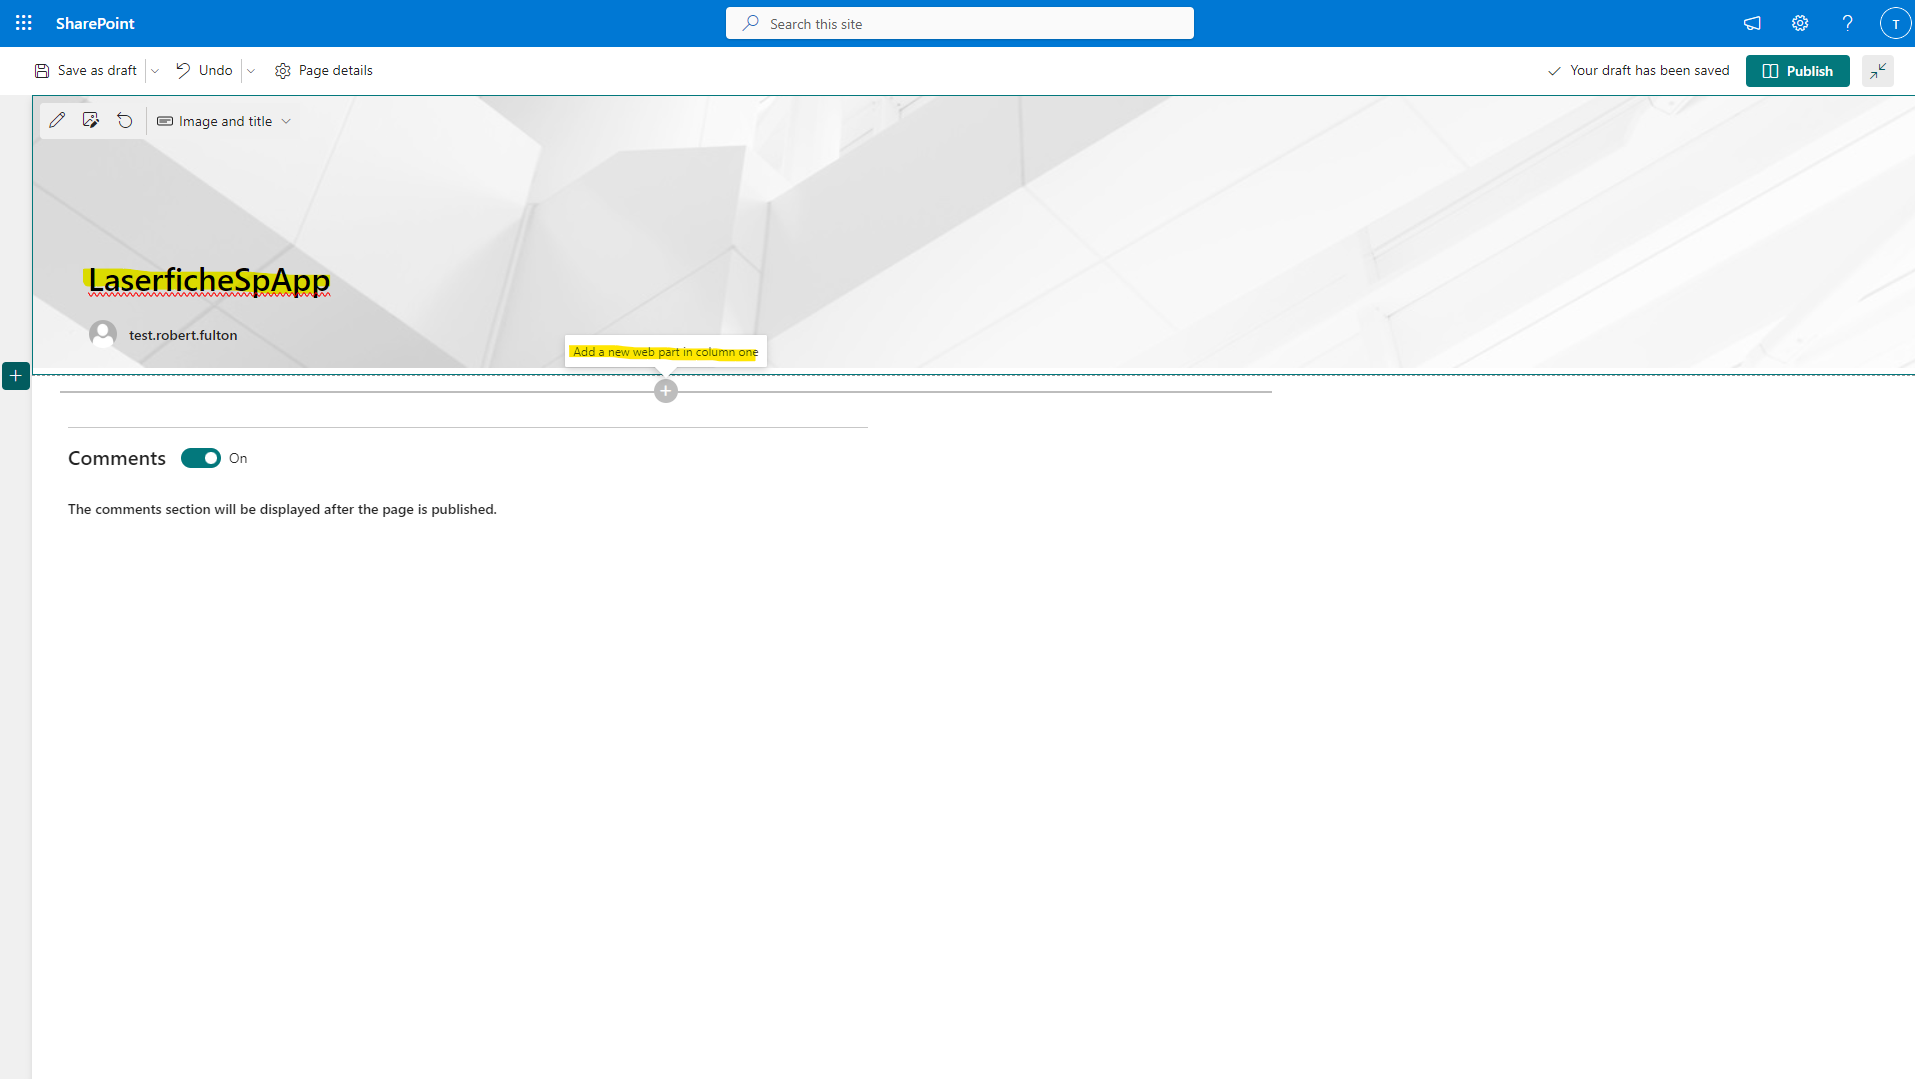
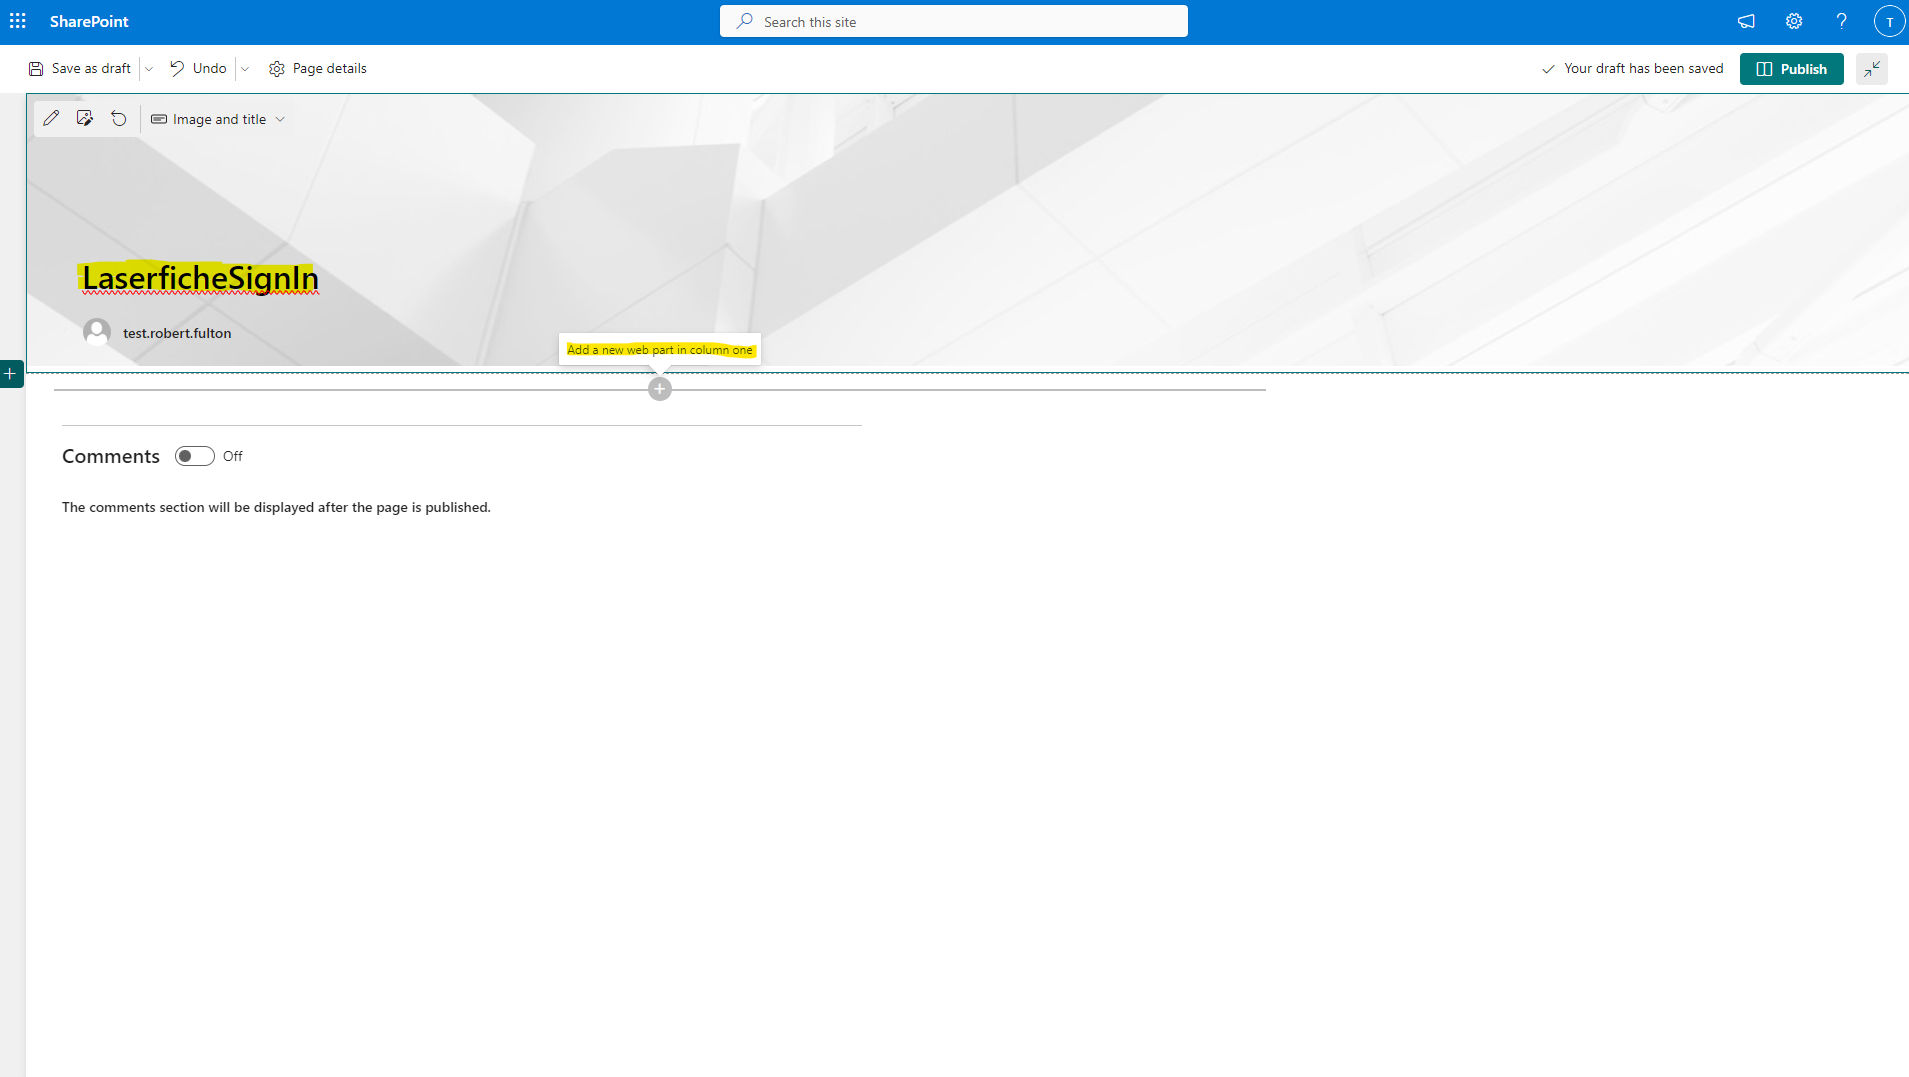
started making alex's suggested changes

diff --git a/jekyll_files/docs/admin-documentation/add-app-organization.md b/jekyll_files/docs/admin-documentation/add-app-organization.md
@@ -1,0 +1,32 @@
+---
+layout: default
+title: Add App to Organization
+nav_order: 1
+parent: Laserfiche SharePoint Integration Administration Guide
+---
+
+# Add App to Organization
+
+## PRE-RELEASE DOCUMENTATION - SUBJECT TO CHANGE
+
+
+### Prerequisites
+  - Have a SharePoint Online account administrator privileges for the tenant app catalog.
+  - Download the latest Laserfiche SharePoint Integration [package file](./assets/laserfiche-sharepoint-integration.sppkg)
+
+### Steps
+1. Navigate to the following url: https://<b>{your-full-subdomain.and-domain.com}</b>/sites/appcatalog/AppCatalog/Forms/AllItems.aspx, where the part in curly braces is replaced by the domain and subdomain of your SharePoint-related websites.
+1. If you can see the Add and Upload buttons, congratulations - you may proceed. If not, ask an administrator to [add you as an admin to the SharePoint Online App Catalog](https://learn.microsoft.com/en-us/office365/customlearning/addappadmin#add-an-administrator).
+1. Click Upload and select the Laserfiche SharePoint package file (.sppkg).
+<a href="./assets/images/uploadSppkgFile.png"><img src="./assets/images/uploadSppkgFile.png"></a>
+  - NOTE: It's possible to build a new SharePoint Integration package file directly from source code by following the instructions in this [README.md](https://github.com/Laserfiche/laserfiche-sharepoint-integration#readme).
+1. Back in your SharePoint Site, navigate to the app catalog by clicking on the "Site Contents" item in the
+navigation bar.
+<a href="./assets/images/sharePointSiteContents.png"><img src="./assets/images/sharePointSiteContents.png"></a>
+1. Open the "New" Dropdown menu by clicking on the "+" icon.
+<a href="./assets/images/NewDropDown.png"><img src="./assets/images/NewDropDown.png"></a>
+1. Add the App named “laserfiche-sharepoint-integration-client-side-solution”.
+<a href="./assets/images/addTheApp.png"><img src="./assets/images/addTheApp.png"></a>
+1. Enable the app if you are asked to do so.
+1. Navigate to your SharePoint site. On successful installation "Laserfiche SharePoint Integration" app is listed under the “Site Contents” tab.
+<a href="./assets/images/appInstalled.png"><img src="./assets/images/appInstalled.png"></a>

diff --git a/jekyll_files/docs/admin-documentation/add-app-to-sp-site.md b/jekyll_files/docs/admin-documentation/add-app-to-sp-site.md
@@ -1,0 +1,27 @@
+---
+layout: default
+title: Add App to SharePoint Site
+nav_order: 2
+parent: Laserfiche SharePoint Integration Administration Guide
+---
+
+
+## Add App to SharePoint Site
+
+###  The Laserfiche Sign In Page:
+1. In your SharePoint Site, select the "Pages" item in the navigation bar on the left side of the page.
+<a href="./assets/images/newSitePage.png"><img src="./assets/images/newSitePage.png"></a>
+1. Create and open a new site page by clicking the blue "+ New" button and selecting "Site Page" from the dropdown.
+1. Title the page “LaserficheSignIn”.
+1. Move your cursor just below the title area to the white space beneath. This should reveal a hidden "+" button. If you hover over it, it should display the message "Add a new web part in column one”.
+<a href="./assets/images/hiddenPlusButton.png"><img src="./assets/images/hiddenPlusButton.png"></a>
+1. Click on that button and Search for “Laserfiche Sign In".
+<a href="./assets/images/searchRepositoryExplorer.png"><img src="./assets/images/searchRepositoryExplorer.png"></a>
+1. Click on the search result with a white L on an orange square. The Laserfiche Sign In web part should now appear on your Page. Before using the web part, make sure to [Register Your App in the Laserfiche Developer Console](https://laserfiche.github.io/laserfiche-sharepoint-integration/docs/admin-documentation.html#register-your-app-in-the-developer-console)
+1. After you register your App and give it the right redirect URI, you should be able to log in and use the component. For Documentation on how to use the components, reference the [User Documentation](./user-documentation/).
+
+### The Admin Configuration Page:
+ Follow the same steps as above, but title the page whatever you wish and add the “Admin Configuration” web part instead of “Laserfiche Sign In".
+
+### The Repository Explorer Page:
+Follow the same steps as above, but title the Page whatever you wish and add the “Repository Explorer” web part.

diff --git a/jekyll_files/docs/user-documentation/index.md b/jekyll_files/docs/user-documentation/index.md
@@ -16,15 +16,14 @@ Laserfiche SharePoint Integration comprises of three web parts:
 This SharePoint web part provides a view to browse the content of a
 Laserfiche cloud repository and open documents in Web Client. For more information, consult the [Repository Explorer Documentation](./repository-explorer-usage)
 
-### The Save to Laserfiche web part
+### The Laserfiche Sign In web part
 
-This SharePoint web part allows you to export files directly from SharePoint to Laserfiche. It provides the essential functionality of the SharePoint/Laserfiche Integration. Advanced Settings can be configured in the [Admin Configuration Web Part](#the-admin-configuration-web-part). For more information, consult the [Save To Laserfiche Usage Guide](./save-to-laserfiche-usage)
+This SharePoint web part allows you to export files directly from SharePoint to Laserfiche. It provides the essential functionality of the SharePoint/Laserfiche Integration. Advanced Settings can be configured in the [Admin Configuration Web Part](#the-admin-configuration-web-part). For more information, consult the [Sign In Usage Guide](./sign-in-usage)
 
 ### The Admin Configuration web part 
 
-This SharePoint web part is used to define how the Save to
-Laserfiche web part should map SharePoint metadata to Laserfiche
+This SharePoint web part is used to define how SharePoint metadata should map to Laserfiche
 metadata when sending Documents from SharePoint to Laserfiche, as well
-as where to save it in Laserfiche. This web part contains three tabs. 
+as where to save the document itself in Laserfiche. This web part contains three tabs. 
 For more information, consult the [Admin Configuration Documentation](./admin-config-usage)
 

diff --git a/jekyll_files/docs/admin-documentation/configure-app-in-laserfiche.md b/jekyll_files/docs/admin-documentation/configure-app-in-laserfiche.md
@@ -1,0 +1,19 @@
+---
+layout: default
+title: Configure App in Laserfiche
+nav_order: 3
+parent: Laserfiche SharePoint Integration Administration Guide
+---
+# Configure App in Laserfiche
+## PRE-RELEASE DOCUMENTATION - SUBJECT TO CHANGE
+
+1. Open the [Developer Console](https://developer.laserfiche.com/developer-console.html).
+<a href="./assets/images/createAppFromManifest.png"><img src="./assets/images/createAppFromManifest.png"></a>
+1. Attempt to Create a New App from Manifest, and upload the manifest provided [here](https://github.com/Laserfiche/laserfiche-sharepoint-integration/blob/1.x/UserDocuments/Laserfiche%20SharePoint%20Integration%20AppManifest.json).
+<a href="./assets/images/createApplication.png"><img src="./assets/images/createApplication.png"></a>
+1. If the attempt fails because an app with that client ID already exists, find the app with that client id by opening the following url in a new tab: https://app.laserfiche.com/devconsole/apps/<b>{your_client_id_goes_here}</b>/config, where the part enclosed in braces should be replaced by the client_id of the manifest linked in the previous step.
+<a href="./assets/images/clientIdRegistered.png"><img src="./assets/images/clientIdRegistered.png"></a>
+1. One way or another, an app with that client ID should now exist. Open the app and switch from the general tab to the authentication tab.
+<a href="./assets/images/redirectUri.png"><img src="./assets/images/redirectUri.png"></a>
+1. Add the URL of your SharePoint Page with the Laserfiche web part as a new redirect URI.
+1. You should now be able to Sign In.

diff --git a/jekyll_files/index.md b/jekyll_files/index.md
@@ -10,16 +10,14 @@ nav_order: 1
 
 ## Introduction
 
-Laserfiche SharePoint Integration comprises of three web parts:
+Laserfiche SharePoint Integration allows you to do two things:
 
-- The Save to Laserfiche web part: 
-This web part allows users to export files directly from SharePoint to Laserfiche. It provides the essential functionality of the Laserfiche SharePoint Integration. Options when saving a document to Laserfiche are:
+- Browse Laserfiche repository: Sites in SharePoint can use the integration to add a web part which provides a view into the
+Laserfiche cloud repository and to open documents in Laserfiche Web Client.
+
+- Save files to Laserfiche: 
+The integration enables users to export files and their metadata directly from SharePoint to Laserfiche. Options when saving a document to Laserfiche are:
   - Save a copy to Laserfiche
   - Save to Laserfiche and delete from SharePoint
   - Save to Laserfiche and replace SharePoint document with a link to Laserfiche
 
-- Repository Explorer web part: This web part provides a view to browse the content of a
-Laserfiche cloud repository and open documents in Laserfiche Web Client.
-
-- The Admin Configuration web part: This web part is used to customize how the Save to
-Laserfiche behaves by configuring mappings between SharePoint and Laserfiche metadata and defining "save to" folder.

diff --git a/jekyll_files/docs/admin-documentation/index.md b/jekyll_files/docs/admin-documentation/index.md
@@ -1,0 +1,10 @@
+---
+layout: default
+title: Laserfiche SharePoint Integration Administration Guide
+nav_order: 2
+has_children: true
+---
+
+# Laserfiche SharePoint Integration Administration Guide
+
+## PRE-RELEASE DOCUMENTATION - SUBJECT TO CHANGE
